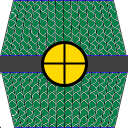
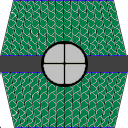
Added lamp image for barracks; rotate lamp on roof of barracks

Changed region(s): [[0.3125, 0.3438, 0.6875, 0.6562]]

diff --git a/enemyBarracks.js b/enemyBarracks.js
@@ -1,6 +1,6 @@
 class EnemyBarracks extends Enemy
 {
-    RotationSpeedRad = 0.005
+    RotationSpeedRad = 0.007
     SpawnFreqSec = 3
 
     constructor(scene, enemyGroup, enemyData, obstacles, enemies)
@@ -18,6 +18,8 @@ class EnemyBarracks extends Enemy
         this.rayCasting = 0
 
         this.polygon = 0
+
+        this.lampSprite = enemyGroup.create(enemyData.x, enemyData.y, "barracks_lamp")
     }
 
     move(playerSprite, ray)
@@ -68,6 +70,7 @@ class EnemyBarracks extends Enemy
         }
 
         this.angleRad += this.RotationSpeedRad
+        this.lampSprite.setAngle(this.angleRad / Math.PI * 180)
     }
 
     fire(round, player)
@@ -81,6 +84,8 @@ class EnemyBarracks extends Enemy
 
         if (this.hitPoints < 0)
         {
+            this.lampSprite.destroy()
+
             if (this.polygon != 0)
             {
                 this.polygon.destroy()

diff --git a/tanxScene.js b/tanxScene.js
@@ -17,6 +17,7 @@ class TanxScene extends Phaser.Scene
         this.load.image('enemy', 'assets/enemy.png')
         this.load.image('turret', 'assets/turret.png')
         this.load.image('barracks', 'assets/barracks.png')
+        this.load.image('barracks_lamp', 'assets/barracks_lamp.png')
         this.load.image('soldier', 'assets/soldier.png')
         this.load.image('gun', 'assets/gun.png')
 
